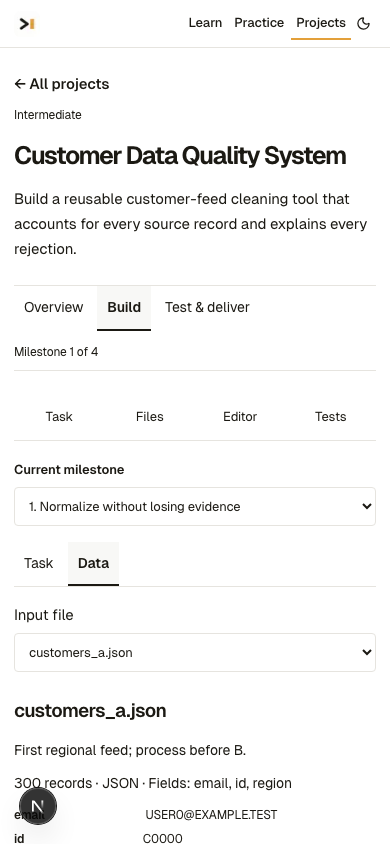
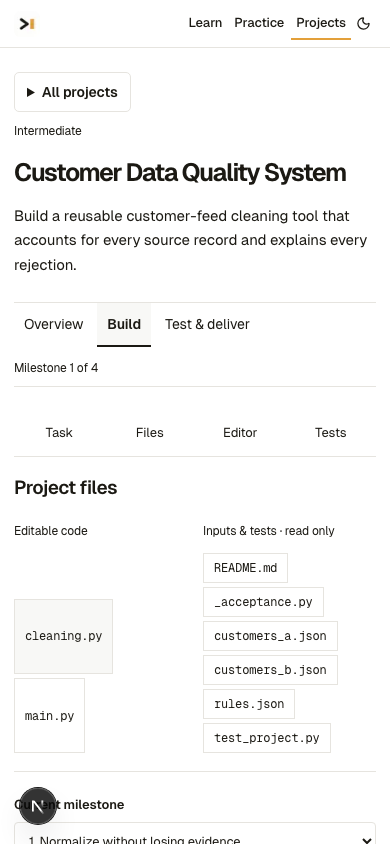
Add direct project entry and header selection with clearer delivery panels

diff --git a/src/features/py/projects-v2/Workspace.tsx b/src/features/py/projects-v2/Workspace.tsx
@@ -14,9 +14,7 @@ import './projects.css';
 import {DataPreview} from './DataPreview';
 import {projectGuidance} from '@/content/python/projects-v2/guidance';
 
-export function ProjectCatalog({projects}:{projects:Pick<ProjectV2,'ref'|'slug'|'title'|'level'|'milestones'|'objective'|'datasets'>[]}){return <Shell subject="python" section="projects" path={[{label:'python',href:'/python'},{label:'projects'}]}><div className="py-project-v2 pv-catalog"><p className="rx-label">Python Projects</p><h1>Build something that works.</h1><p>Connected Python files, realistic synthetic inputs, executable tests, and deliverables from your own program.</p><div className="pv-projects">{projects.map(p=><Link key={p.ref} href={`/python/projects/${p.slug}`}><span className="rx-label">{p.level} · {p.milestones.length} milestones</span><h2>{p.title}</h2><p>{p.objective}</p><span>{p.datasets.reduce((n,d)=>n+d.rows,0).toLocaleString()} input records across {p.datasets.length} files →</span></Link>)}</div></div></Shell>;}
-
-export function ProjectWorkspace({project,initialStage}:{project:ProjectV2;initialStage?:string}){
+export function ProjectWorkspace({project,projects,initialStage}:{project:ProjectV2;projects:{slug:string;title:string}[];initialStage?:string}){
  const [draft,setDraft]=useState<ProjectDraft>(()=>freshDraft(project));const [ready,setReady]=useState(false);const [storageError,setStorageError]=useState('');
  const [busy,setBusy]=useState(false);const running=useRef(false);const editor=useRef<PyEditorHandle>(null);const layout=useRef<HTMLDivElement>(null);const [run,setRun]=useState<Awaited<ReturnType<typeof executeProject>>|null>(null);const [runSnapshot,setRunSnapshot]=useState('');const [notice,setNotice]=useState('');
  const [stage,setStage]=useState<'overview'|'build'|'finish'>('overview');
@@ -41,7 +39,7 @@ export function ProjectWorkspace({project,initialStage}:{project:ProjectV2;initi
  const complete=canDeliver(project,draft);const stale=runSnapshot!==snapshot(draft.files);
  const artifactList=stage==='finish'&&draft.evidence?draft.evidence.artifacts:run&&'files' in run.result?run.result.files??[]:draft.evidence?.artifacts??[];
  async function execute(mode:'run'|'milestone'|'acceptance'){
-  if(running.current)return;running.current=true;setBusy(true);setNotice('');setOutput(mode==='run'?'console':'tests');const source={...draft.files};const sig=snapshot(source);const milestone=draft.milestone;
+  if(running.current)return;running.current=true;setBusy(true);setRunMode(mode);setRun(null);setNotice('');setOutput(mode==='run'?'console':'tests');const source={...draft.files};const sig=snapshot(source);const milestone=draft.milestone;
   try{const result=await executeProject(project,source,mode,milestone);setRun(result);setRunMode(mode);setRunSnapshot(sig);
    if(result.report){const evidence={snapshot:sig,passed:result.report.ok,time:Date.now(),checks:result.report.checks.map(c=>({label:c.label,passed:c.status==='pass'})),artifacts:'files' in result.result?result.result.files??[]:[]};
     setDraft(d=>mode==='acceptance'?{...d,evidence}:{...d,milestones:{...d.milestones,[project.milestones[milestone].id]:{snapshot:sig,passed:result.report!.ok}}});
@@ -63,7 +61,7 @@ export function ProjectWorkspace({project,initialStage}:{project:ProjectV2;initi
  if(!ready)return <Shell subject="python" section="projects" path={[{label:'projects'}]}><p className="rx-page" role="status">Loading your project files…</p></Shell>;
  return <Shell subject="python" section="projects" path={[{label:'python',href:'/python'},{label:'projects',href:'/python/projects'},{label:project.title}]}>
  <div className="py-project-v2 pv-project-page">
-  <header className="pv-header"><Link className="rx-link" href="/python/projects">← All projects</Link><span>{project.level}</span><h1>{project.title}</h1><p>{project.objective}</p></header>
+  <header className="pv-header"><details className="pv-project-picker" onKeyDown={e=>{if(e.key==='Escape'){e.currentTarget.open=false;e.currentTarget.querySelector('summary')?.focus();}}}><summary>All projects</summary><nav aria-label="Python projects">{projects.map(item=><Link key={item.slug} href={`/python/projects/${item.slug}#overview`} aria-current={item.slug===project.slug?'page':undefined} onClick={e=>{e.currentTarget.closest('details')?.removeAttribute('open');setStage('overview');}}>{item.title}</Link>)}</nav></details><span>{project.level}</span><h1>{project.title}</h1><p>{project.objective}</p></header>
   <nav className="pv-stage-nav" aria-label="Project stages">{(['overview','build','finish'] as const).map(value=><button key={value} aria-current={stage===value?'page':undefined} onClick={()=>navigate(value)}>{value==='overview'?'Overview':value==='build'?'Build':'Test & deliver'}</button>)}{stage==='build'&&<span>Milestone {draft.milestone+1} of {project.milestones.length}</span>}</nav>
   {storageError&&<p className="pv-warning" role="alert">{storageError}</p>}
   {stage==='overview'&&<section className="pv-overview">
@@ -78,10 +76,11 @@ export function ProjectWorkspace({project,initialStage}:{project:ProjectV2;initi
   {stage==='build'&&<nav className="pv-mobile-nav" aria-label="Workspace shortcuts"><button onClick={()=>{setReference('task');document.querySelector('.pv-brief')?.scrollIntoView({block:'start'});}}>Task</button><button onClick={()=>document.querySelector('.pv-files')?.scrollIntoView({block:'start'})}>Files</button><button onClick={()=>document.querySelector('.pv-work')?.scrollIntoView({block:'start'})}>Editor</button><button onClick={()=>{setOutput('tests');document.querySelector('.pv-output')?.scrollIntoView({block:'start'});}}>Tests</button></nav>}
   {stage==='build'&&<div ref={layout} className="pv-build" style={{'--pv-task-width':`${paneWidth}%`} as CSSProperties}>
    <aside className="pv-brief">
+    <section className="pv-files"><h2>Project files</h2><div className="pv-explorer" role="group" aria-label="File explorer"><div><p>Editable code</p>{Object.keys(draft.files).map(name=><button key={name} aria-pressed={draft.selected===name} onClick={()=>setDraft(d=>({...d,selected:name}))}>{name}</button>)}</div><div><p>Inputs & tests · read only</p>{Object.keys(project.files).filter(name=>name!=='_expected.json').map(name=><button key={name} aria-pressed={draft.selected===name} onClick={()=>setDraft(d=>({...d,selected:name}))}>{name}</button>)}</div></div></section>
     <label className="pv-milestone-label" htmlFor="project-milestone">Current milestone</label><select id="project-milestone" value={draft.milestone} onChange={e=>{setDraft(d=>({...d,milestone:Number(e.target.value)}));setReference('task');}}>{project.milestones.map((m,i)=><option key={m.id} value={i}>{i+1}. {m.title}{draft.milestones[m.id]?.passed?' ✓':''}</option>)}</select>
     <div className="pv-tab-bar" role="group" aria-label="Task and data"><button aria-pressed={reference==='task'} onClick={()=>setReference('task')}>Task</button><button aria-pressed={reference==='data'} onClick={()=>setReference('data')}>Data</button></div>
     {reference==='task'?<section className="pv-task"><h2>{current.title}</h2><p>{current.objective}</p>{targetFile&&<button className="rx-btn" onClick={openFunction}>Open {targetFunction}() in {targetFile}</button>}<h3>Requirements</h3><ul>{current.requirements.map(r=><li key={r}>{r}</li>)}</ul><p className="rx-small">Implement this step first. Check milestone also checks earlier steps; later unfinished functions can wait.</p></section>:<section className="pv-inputs"><label htmlFor="project-data">Input file</label><select id="project-data" value={dataPath} onChange={e=>setDataPath(e.target.value)}>{project.datasets.map(d=><option key={d.path} value={d.path}>{d.path}</option>)}</select>{selectedData&&<><h2>{selectedData.path}</h2><p>{selectedData.purpose}</p><p className="rx-small">{selectedData.rows.toLocaleString()} records · {selectedData.format.toUpperCase()} · Fields: {selectedData.schema}</p><DataPreview dataset={selectedData}/><p className="rx-small">{selectedData.rows>5?'First 5 records shown.':'All records shown.'} Inputs are already available to your code.</p><button className="rx-btn" onClick={()=>setDraft(d=>({...d,selected:selectedData.path}))}>Open full input</button><button className="rx-btn" onClick={()=>downloadText(selectedData.path,project.files[selectedData.path])}>Download input</button></>}</section>}
-    <section className="pv-files"><h2>Project files</h2><div className="pv-explorer" role="group" aria-label="File explorer"><div><p>Editable code</p>{Object.keys(draft.files).map(name=><button key={name} aria-pressed={draft.selected===name} onClick={()=>setDraft(d=>({...d,selected:name}))}>{name}</button>)}</div><div><p>Inputs & tests · read only</p>{Object.keys(project.files).filter(name=>name!=='_expected.json').map(name=><button key={name} aria-pressed={draft.selected===name} onClick={()=>setDraft(d=>({...d,selected:name}))}>{name}</button>)}</div></div></section>
+
    </aside>
    <div className="pv-divider" role="separator" aria-label="Resize task and editor columns" aria-orientation="vertical" aria-valuenow={paneWidth} aria-valuemin={25} aria-valuemax={55} tabIndex={0} onKeyDown={e=>{if(e.key==='ArrowLeft'||e.key==='ArrowRight'){e.preventDefault();setPaneWidth(v=>Math.max(25,Math.min(55,v+(e.key==='ArrowRight'?2:-2))));}}} onPointerDown={e=>{e.currentTarget.setPointerCapture(e.pointerId);}} onPointerMove={e=>{if(!e.currentTarget.hasPointerCapture(e.pointerId)||!layout.current)return;const box=layout.current.getBoundingClientRect();setPaneWidth(Math.max(25,Math.min(55,Math.round((e.clientX-box.left)/box.width*100))));}} onPointerUp={e=>e.currentTarget.releasePointerCapture(e.pointerId)}/>
    <section className="pv-work" aria-label="Project workspace">
@@ -92,9 +91,22 @@ export function ProjectWorkspace({project,initialStage}:{project:ProjectV2;initi
     <section className="pv-output"><div className="pv-tab-bar" role="group" aria-label="Output views">{(['console','tests','files'] as const).map(value=><button key={value} aria-pressed={output===value} onClick={()=>setOutput(value)}>{value==='console'?'Console':value==='tests'?'Tests':'Generated files'}</button>)}</div><div className="pv-results">{output==='tests'?checks:output==='files'?artifacts:!run&&!busy?<p>Run project executes main.py. While later functions are unfinished, use Check milestone to test the current step.</p>:<ConsoleView busy={busy} live={[]} ran={run?{result:'files' in run.result?{...run.result,files:[]}:run.result,code:runSnapshot}:null} edited={stale}/>}</div></section>
    </section>
   </div>}
-  {stage==='finish'&&<section className="pv-finish"><h2>Test & deliver</h2><p>Run every acceptance check against your current files, then download the program with its generated outputs.</p><div className="pv-actions"><button className="rx-btn primary" disabled={busy} onClick={()=>execute('acceptance')}>Check complete project</button><button className="rx-btn" onClick={()=>navigate('build')}>Return to Build</button></div><p role="status">{busy?'Running Python…':notice}</p><h3>{complete?'Ready to deliver':'Still to do'}</h3>{complete?<p>Current code passed every check and all required files are available.</p>:<ul>{blockers.map(message=><li key={message}>{message}</li>)}</ul>}<section className="pv-output"><h2>Acceptance results</h2>{checks}</section><h2>Generated files</h2>{draft.evidence&&<p className="rx-small">Captured by the last complete-project check{draft.evidence.snapshot!==snapshot(draft.files)?"; your code has changed since then":""}.</p>}{artifacts}
-   {project.analytical&&<section><h2>Interpret the verified results</h2><p>{project.interpretation}</p><label htmlFor="project-interpretation">Final interpretation (at least 80 characters)</label><textarea id="project-interpretation" value={draft.interpretation} onChange={e=>setDraft(d=>({...d,interpretation:e.target.value}))} rows={6}/><p className="rx-small">Checks verify calculations and files. Your interpretation is not automatically assessed for factual quality.</p></section>}
-   <div className="pv-delivery"><button className="rx-btn" onClick={()=>bundle(false)}>Download work in progress</button><button className="rx-btn primary" disabled={!complete||busy} onClick={()=>bundle(true)}>Download verified project</button></div>
+  {stage==='finish'&&<section className="pv-finish">
+   <div className="pv-finish-heading"><div><h2>Check your work, then download it</h2><p>Test the complete program and collect the files it produces.</p></div><span className="pv-delivery-state">{complete?'Ready to deliver':draft.evidence?.snapshot!==snapshot(draft.files)&&draft.evidence?'Code changed':draft.evidence?'Needs attention':'Not checked yet'}</span></div>
+   <div className="pv-finish-grid">
+    <section className="pv-check-panel"><h2>Project checks</h2><p>Checks every milestone against your current code.</p><button className="rx-btn primary" disabled={busy} onClick={()=>execute('acceptance')}>{busy&&runMode==='acceptance'?'Checking project…':'Check complete project'}</button>
+     <div className="pv-check-status" role="status">{busy?(runMode==='acceptance'?'Running the complete project checks…':'A check is running in Build.'):runMode==='acceptance'&&!run?.report?notice:''}</div>
+     <div className="pv-output">{draft.evidence||runMode==='acceptance'&&run?.report?checks:<div className="pv-check-empty"><h3>No project checks yet</h3><p>When you run the check, each requirement will appear here with its result. Milestone results stay in Build.</p></div>}</div>
+    </section>
+    <section className="pv-package-panel"><h2>Your delivery</h2><p>Your Python source, input data, tests, and generated outputs in one ZIP.</p>
+     <h3>{complete?'Ready to deliver':'Still to do'}</h3>{complete?<p>All checks passed for the current code and every output is available.</p>:<ul className="pv-delivery-tasks">{blockers.filter(message=>!message.startsWith('Generate complete output')).map(message=><li key={message}>{message}</li>)}</ul>}
+     <h3>Required output files</h3><ul className="pv-output-files">{project.artifacts.map(path=>{const file=draft.evidence?.artifacts.find(f=>f.path===path);return <li key={path}><div><code>{path}</code><span>{!file?'Not generated':file.truncated?'Incomplete':draft.evidence?.snapshot!==snapshot(draft.files)?'Check again':'Generated'}</span></div>{file&&!file.truncated&&<button className="rx-btn" onClick={()=>downloadText(path,file.text)}>Download {path}</button>}</li>;})}</ul>
+     {draft.evidence&&<p className="rx-small">Outputs from your last complete-project check.</p>}
+     {project.analytical&&<section className="pv-interpretation"><h3>Explain your findings</h3><p>{project.interpretation}</p><label htmlFor="project-interpretation">Final interpretation (at least 80 characters)</label><textarea id="project-interpretation" value={draft.interpretation} onChange={e=>setDraft(d=>({...d,interpretation:e.target.value}))} rows={6}/><p className="rx-small">Checks verify calculations and files. Written conclusions are not automatically assessed.</p></section>}
+     <div className="pv-delivery"><button className="rx-btn primary" disabled={!complete||busy} onClick={()=>bundle(true)}>Download verified project</button><button className="rx-btn" onClick={()=>bundle(false)}>Download work in progress</button></div>
+    </section>
+   </div>
   </section>}
+
  </div></Shell>;
 }

diff --git a/src/features/py/projects-v2/projects.css b/src/features/py/projects-v2/projects.css
@@ -147,3 +147,40 @@
  .pv-overview-plan { margin-top:24px; }
 }
 .py-project-v2.pv-project-page { max-width:none; }
+/* Files precede the active task; delivery groups checks and the resulting package. */
+.pv-build .pv-files { border-top:0; border-bottom:1px solid var(--rx-line); padding-bottom:18px; margin-bottom:20px; }
+.pv-build .pv-files h2 { margin:0 0 10px; }
+.pv-build .pv-explorer { grid-template-columns:minmax(0,1fr) minmax(0,1fr); gap:16px; }
+.pv-finish-heading { display:flex; justify-content:space-between; align-items:flex-start; gap:20px; margin-bottom:24px; }
+.pv-finish-heading h2 { margin:0 0 8px; font-size:22px; }
+.pv-finish-heading p { margin:0; color:var(--rx-dim); }
+.pv-delivery-state { padding:7px 12px; background:var(--rx-cell); border:1px solid var(--rx-line); border-radius:5px; font-size:13px; white-space:nowrap; }
+.pv-finish-grid { display:grid; grid-template-columns:minmax(0,1fr) minmax(0,1fr); gap:28px; }
+.pv-check-panel,.pv-package-panel { min-width:0; padding:24px; border:1px solid var(--rx-line); border-radius:8px; }
+.pv-finish-grid h2 { margin:0 0 8px; }
+.pv-finish-grid h3 { font-family:inherit; font-size:14px; margin:24px 0 10px; }
+.pv-finish-grid p { margin:8px 0 16px; }
+.pv-finish-grid .pv-output { margin:20px 0 0; padding-top:16px; }
+.pv-check-status:empty { display:none; }
+.pv-check-status { margin-top:12px; font-size:13px; }
+.pv-check-empty { padding:8px 0; }
+.pv-check-empty h3 { margin-top:0; }
+.pv-check-empty p { color:var(--rx-dim); max-width:60ch; }
+.py-project-v2 .pv-output-files { list-style:none; padding:0; margin:0; }
+.pv-output-files li { display:flex; align-items:center; justify-content:space-between; flex-wrap:wrap; gap:12px; padding:12px 0; border-bottom:1px solid var(--rx-line); }
+.pv-output-files li > div { display:flex; flex-direction:column; gap:4px; }
+.pv-output-files code { font-size:13px; }
+.pv-output-files span { font-size:12px; color:var(--rx-dim); }
+.pv-package-panel .pv-delivery { margin-top:24px; padding-top:16px; }
+.pv-interpretation textarea { margin-top:8px; }
+@media(max-width:700px){
+ .pv-finish-heading { flex-direction:column; gap:12px; }
+ .pv-finish-grid { grid-template-columns:minmax(0,1fr); gap:16px; }
+ .pv-check-panel,.pv-package-panel { padding:16px; }
+}
+.pv-project-picker { display:inline-block; position:relative; }
+.pv-project-picker summary { cursor:pointer; padding:8px 12px; border:1px solid var(--rx-line); border-radius:5px; font-size:14px; font-weight:600; }
+.pv-project-picker nav { position:absolute; z-index:30; top:calc(100% + 6px); left:0; width:min(380px,calc(100vw - 48px)); padding:6px; border:1px solid var(--rx-line); border-radius:6px; background:var(--rx-bg); box-shadow:0 8px 24px #00000012; }
+.pv-project-picker nav a { display:block; padding:10px 12px; font-size:14px; border-radius:4px; }
+.pv-project-picker nav a:hover,.pv-project-picker nav a[aria-current=page] { background:var(--rx-cell); }
+.pv-project-picker nav a[aria-current=page] { font-weight:600; }

diff --git a/src/app/python/projects/[slug]/page.tsx b/src/app/python/projects/[slug]/page.tsx
@@ -1,7 +1,7 @@
 import { notFound } from "next/navigation";
 import { pythonRunnerEnabled } from "@/platform/python-runner";
 import { ProjectWorkspace } from "@/features/py/projects-v2/Workspace";
-import { projectV2 } from "@/content/python/projects-v2";
+import { projectV2, projectsV2 } from "@/content/python/projects-v2";
 import { pythonProjects } from "@/content/python/journeys";
 export const dynamicParams = false;
 export function generateStaticParams() { return pythonProjects.map(x => ({slug:x.slug})); }
@@ -11,5 +11,5 @@ export default async function Page({params, searchParams}: {params: Promise<{slu
  if (!pythonRunnerEnabled() || !pythonProjects.some(x => x.slug === slug)) notFound();
  const project = projectV2(slug);
  if (!project) notFound();
- return <ProjectWorkspace key={slug} project={{...project,reference:{}}} initialStage={(await searchParams).stage} />;
+ return <ProjectWorkspace key={slug} projects={projectsV2.map(({slug,title})=>({slug,title}))} project={{...project,reference:{}}} initialStage={(await searchParams).stage} />;
 }

diff --git a/src/app/python/projects/page.tsx b/src/app/python/projects/page.tsx
@@ -1,9 +1,8 @@
-import { notFound } from "next/navigation";
+import { notFound, redirect } from "next/navigation";
 import { pythonRunnerEnabled } from "@/platform/python-runner";
-import { ProjectCatalog } from "@/features/py/projects-v2/Workspace";
 import { projectsV2 } from "@/content/python/projects-v2";
 export const metadata = { robots: { index:false, follow:false } };
 export default function Page() {
  if (!pythonRunnerEnabled()) notFound();
- return <ProjectCatalog projects={projectsV2.map(({ref,slug,title,level,milestones,objective,datasets})=>({ref,slug,title,level,milestones,objective,datasets}))} />;
+ redirect(`/python/projects/${projectsV2[0].slug}#overview`);
 }

diff --git a/docs/python/projects-v2/REPORT.md b/docs/python/projects-v2/REPORT.md
@@ -306,3 +306,11 @@ Verification: application TypeScript passed; Chromium Customer Data Quality and 
 ## Editor scrolling correction
 
 Removed fixed editor/output heights, the Results height slider and the duplicate Go to Test & deliver button. Code and read-only source views expand with their contents, and results occupy only their content height. The page provides scrolling rather than nested editor/results scrollbars. The editor retains a modest minimum writing area for short files. Milestone count is shown only in Build; Overview and Test & deliver omit it. Layout verification now checks these conditions alongside the existing equal-column and responsive checks.
+
+## Delivery clarity and file ordering
+
+Project files now precede the current milestone in Build. Test & deliver groups project-level checks and the delivery package into equal desktop panels, stacked on mobile. Required outputs have individual generated/missing/incomplete/stale statuses beside their downloads. Milestone notices no longer leak into delivery's project-check summary. Verification: TypeScript and all six responsive workspace checks passed; Customer Data Quality also passed cumulative milestone execution, acceptance, actual ZIP delivery, saved progress, reload and incorrect-solution rejection.
+
+## Project entry and selection
+
+The Projects route opens the first project's Overview directly. A compact All projects control in the project header lists the six project names and links each to its Overview, following SQL's project-selection pattern. The catalog detour is removed; individual project URLs and saved work remain unchanged. The Python runtime route gate is preserved. Browser checks cover the entry redirect and switching through every project from this menu.
